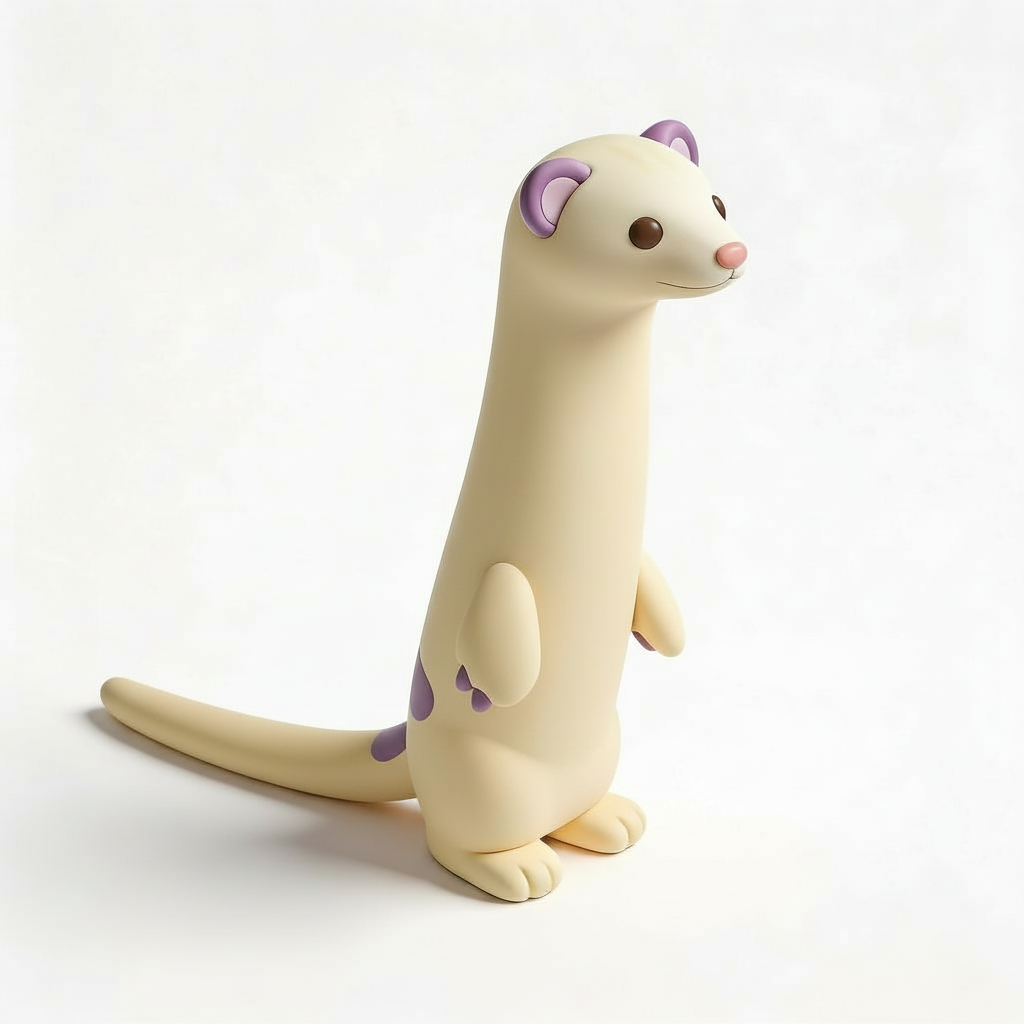
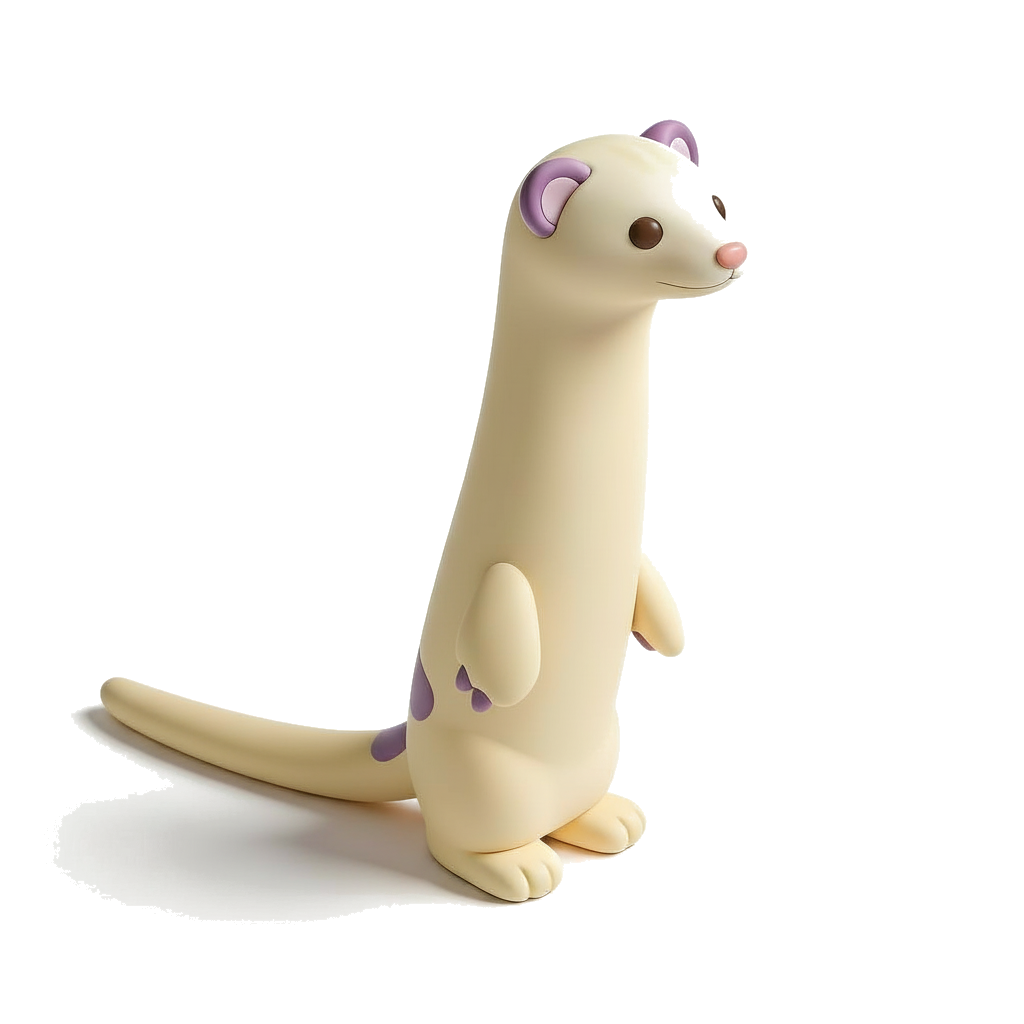
Remove white background from ferret PNGs and add lavender glow
- Flood-fill background removal with edge anti-aliasing (79.5% transparent)
- Replace mix-blend-mode: multiply with proper transparency
- Add soft radial lavender glow behind mascot
- Add drop-shadow filter for depth instead of Tailwind drop-shadow

https://claude.ai/code/session_018aHLTm7EVA5vh3bD9ESYpo

Changed region(s): [[0.0, 0.6875, 0.4688, 0.9375], [0.6562, 0.1562, 0.7188, 0.25], [0.5312, 0.8438, 0.5625, 0.875]]

diff --git a/web/src/components/FerretMascot.tsx b/web/src/components/FerretMascot.tsx
@@ -36,6 +36,15 @@ export default function FerretMascot({ size = 160, animate = true }: { size?: nu
       className="relative inline-flex items-center justify-center"
       style={{ width: size, height: size, perspective: '600px' }}
     >
+      {/* Soft radial glow behind the ferret */}
+      <div
+        className="absolute inset-0 rounded-full"
+        style={{
+          background: 'radial-gradient(circle, rgba(201,184,232,0.25) 0%, rgba(213,206,240,0.12) 50%, transparent 75%)',
+          transform: 'scale(1.1)',
+        }}
+      />
+
       {/* Standing ferret (spins, then fades out) */}
       <div className={`ferret-standing absolute inset-0 ${phase}`}>
         <Image
@@ -43,8 +52,8 @@ export default function FerretMascot({ size = 160, animate = true }: { size?: nu
           alt="PWellTrack ferret mascot standing"
           width={size}
           height={size}
-          className="w-full h-full object-contain drop-shadow-md"
-          style={{ mixBlendMode: 'multiply' }}
+          className="w-full h-full object-contain"
+          style={{ filter: 'drop-shadow(0 4px 12px rgba(155,142,200,0.25))' }}
           priority
         />
       </div>
@@ -56,8 +65,8 @@ export default function FerretMascot({ size = 160, animate = true }: { size?: nu
           alt="PWellTrack ferret mascot sleeping"
           width={size}
           height={size}
-          className="w-full h-full object-contain drop-shadow-md"
-          style={{ mixBlendMode: 'multiply' }}
+          className="w-full h-full object-contain"
+          style={{ filter: 'drop-shadow(0 4px 12px rgba(155,142,200,0.25))' }}
           priority
         />
       </div>
